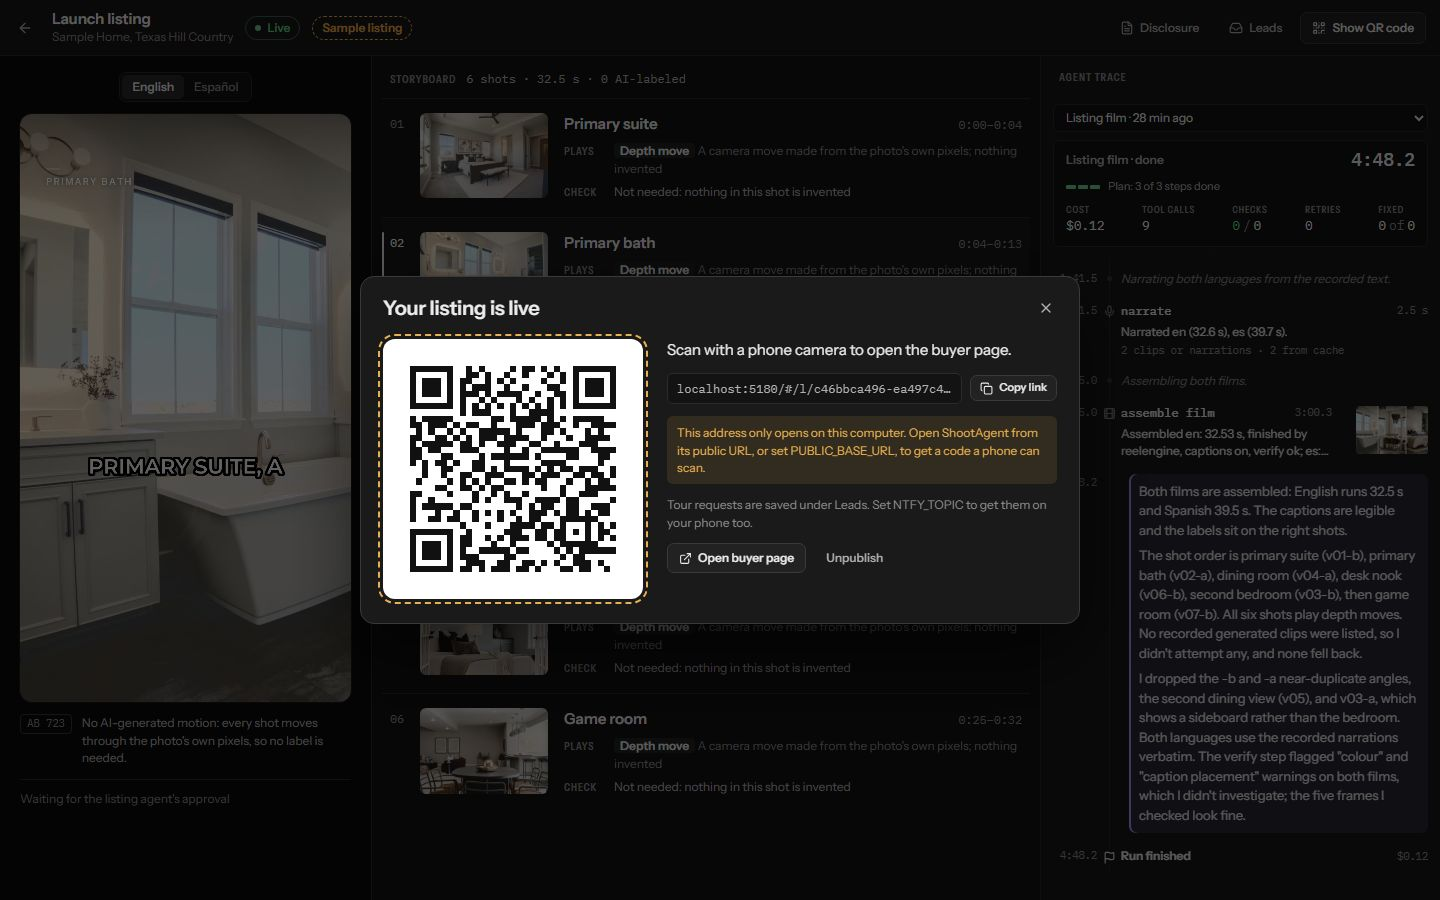
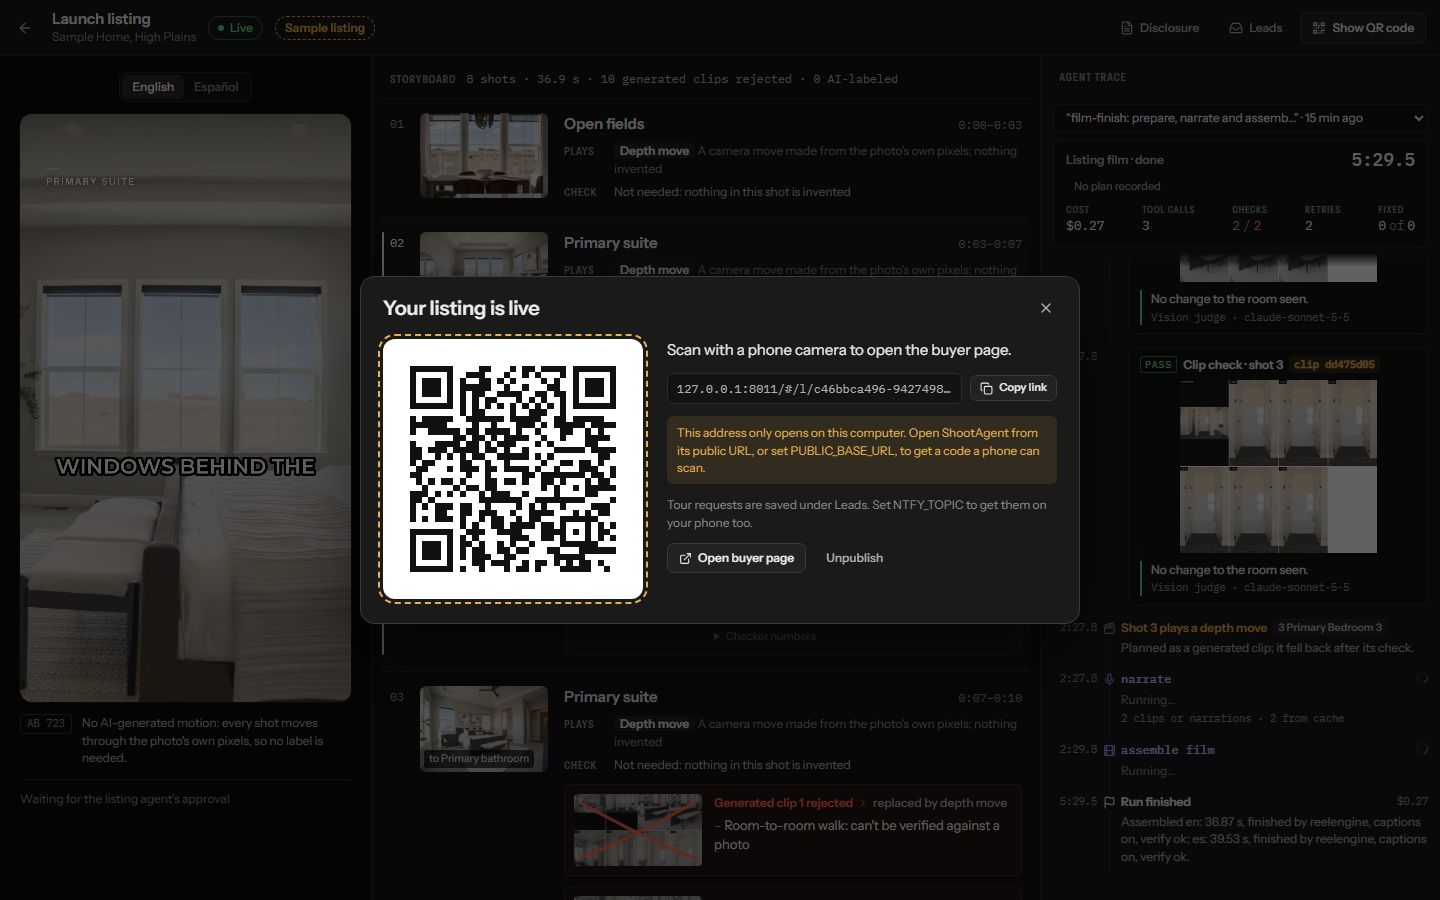
docs: listing launch in the README and write-up; screenshots from the final demo run
The README now leads with the full flow (QC, chat, listing film, buyer page, disclosure), adds the film
checker's untuned score on 10 real Grok clips, the film and listing commands, the film stages in the
architecture diagram and stack table, and the film limitations. The write-up (294 words) and Loom shot list
cover the listing launch. Screenshots were retaken against the demo shoot after the Grok import, so the
storyboard shows the rejected clips.

diff --git a/README.md b/README.md
@@ -1,13 +1,20 @@
 # ShootAgent
 
-ShootAgent checks a real-estate photo shoot against the camera's own exposure brackets, fixes what the
-editing pipeline got wrong, applies a customer's chat requests across every photo they concern, and cuts
-a 9:16 listing reel from the approved photos. Every decision it makes shows up in a live trace: the
-plan, each tool call, each self-check, and each retry.
+ShootAgent takes a real-estate photo shoot from the camera's exposure brackets to a launched listing. It
+checks every finished photo against its brackets and fixes what the editing pipeline got wrong, applies a
+customer's chat requests across every photo they concern, and then launches the listing: a narrated 9:16
+film in English and Spanish whose generated motion is checked against the real photos, a buyer page that
+answers questions and books tours, and a California disclosure page that pairs each edited photo with its
+original. Every decision shows up in a live trace: the plan, each tool call, each self-check, and each retry.
 
 Built for the AITX & MLOps World Community Hackathon (Austin Tech Week, October 2026), entering the
 AutoHDR "Image Models & Pipelines" track (conversational editing, with AI quality control as the
 agent's first pass) and the Antler "Agents" track.
+
+![Frames from a listing film](docs/media/listing-film-strip.jpg)
+
+*Frames from the demo house's listing film. Every shot moves through the photo's own pixels; the price and
+square-footage cards, captions, Gemini narration and Lyria music bed are added by the film pass.*
 
 ![Three saved customer requests applied from chat](docs/media/editor-requests-before-after.jpg)
 
@@ -17,9 +24,9 @@ walls to the colour in the reference image". Pixels outside each edit are byte-i
 delivered photo.*
 
 **Live demo:** https://shootagent.sillion.app (the passcode is in the submission form; it gates spending on
-model APIs). A silent 7-minute walkthrough of one real run (QC, two chat requests, the reel) is in
-[docs/media/demo-walkthrough.mp4](docs/media/demo-walkthrough.mp4), with timestamps in
-[docs/media/demo-walkthrough.md](docs/media/demo-walkthrough.md).
+model APIs). A silent 7-minute walkthrough of one real run of the QC and chat passes, recorded before the
+listing launch existed, is in [docs/media/demo-walkthrough.mp4](docs/media/demo-walkthrough.mp4), with
+timestamps in [docs/media/demo-walkthrough.md](docs/media/demo-walkthrough.md).
 
 ## What it does
 
@@ -51,35 +58,39 @@ wall outlet the customer wanted kept; the third attempt kept it.
 a home, picks a camera move and focus point per photo, renders, and checks a strip of frames before it
 finishes. The music is generated, so the reel carries no licence.
 
-**Listing film.** A narrated, captioned 9:16 film in one or more languages. The agent orders the rooms,
-picks a motion per shot (a generated clip from Grok Imagine, a depth-parallax move, or a slow push-in),
-writes the script from the photos and translates it. Every generated clip is checked against its photos
-(feature matching, motion and line consistency, and a vision judge). A clip that adds or reshapes anything
-is regenerated once with the failure named, then replaced by a depth move, which uses only the photo's
-own pixels. Generated clips that do play carry an "AI-generated motion" label (California AB 723), and
-each film ships with a manifest of every shot's source photo, motion source and check result. Gemini TTS
-speaks the script, and Reel Studio's engine adds captions, the music mix, the cover and a verify report.
-`shootagent film <shoot> --languages en es`; set `FILM_MEDIA=replay` to use recorded media only
-(`shootagent film-seed-replay` copies the recordings from branch `explore/media-tests`). When grok and Gemini
-run on another machine: `shootagent film-script <shoot> --plan plan.json --languages en es` sets the shot plan
-and has the agent write one narration line per shot; `shootagent film-export-requests <shoot>` writes the exact
-grok requests, one TTS request per language, the photos and a stdlib-only runner (`run_grok.py`, which reads the
-Gemini key from the macOS Keychain) to a folder; after it runs there, `shootagent film-import-media <folder>`
-verifies each clip and narration against its fingerprint and recorded request, and `shootagent film-finish
-<shoot>` checks the clips, narrates and assembles. `shootagent listing-sample <shoot>` writes the demo's sample
-listing (`web/src/listing/sample-listing.json`, no street address) to a shoot. `shootagent export-shoot <shoot>
-<out.zip>` and `shootagent import-shoot <zip>` move a finished shoot (store, blobs, traces, film, listing state)
-to another machine; import checks every file against the bundle's SHA-256 list and refuses paths that would
-leave the shoot folder. The demo shoot's bundle is about 760 MiB.
+**Listing film.** A narrated, captioned 9:16 film in one or more languages, made only from photos QC has
+approved. The agent orders the rooms, writes one narration line per shot from what that shot shows (no
+floor levels, materials or counts the photos don't support), translates it, and picks a motion per shot:
+a generated clip from Grok Imagine or a depth-parallax move. Generated clips are where image models invent
+things, so every one is checked against its photo before it may play:
 
-**Listing launch.** From a shoot's film, *Launch listing* shows the storyboard (each shot's photo, its
-motion source, and every generated clip the checker rejected, with the reason and what replaced it), the 9:16
-film in English and Spanish, and the live trace. *Publish listing* gives a QR code for a public buyer page:
-the film, room chips that jump to each room, questions answered from the listing's photos and details (or
-passed to the agent when the photos can't answer), and tour booking that pushes the request to the realtor's
-phone through ntfy. Each listing also gets a California AB 723 disclosure page with every photo beside its
-original. Endpoints are in [docs/api.md](docs/api.md#listing); screenshots in
-[web/screenshots/listing](web/screenshots/listing).
+- tracking signals: the clip's first and last frames must match their photos, tracked points must move
+  like a real camera, straight edges must stay straight, and no structure may appear that the first frame
+  doesn't predict;
+- a vision judge that first lists the checkable items in the photo (doors, windows, lights, wall plates,
+  large furniture, the view through each window) and then accounts for each of them in every sampled frame.
+
+A rejected clip is regenerated once with the failure named, then replaced by a depth move, which moves
+only the photo's own pixels and is itself checked. A walk from one room into another can't be checked
+against any photo, so it never passes on its own. Generated clips that do play carry an "AI-generated
+motion" label, and each film ships with a manifest of every shot's photo, motion source and check results,
+rejected attempts included. Gemini TTS speaks the script; Reel Studio's render engine adds captions, the
+music bed under the voice, the cover and a loudness and sync check; its price and stat card templates
+supply the title cards; cuts land on the music's beats.
+
+**Listing launch.** *Launch listing* shows the film's storyboard (each shot's photo, its motion source,
+and every generated clip the checker rejected, with the reason and what replaced it), the film in English
+and Spanish, and the live trace. *Publish listing* gives a QR code for a public buyer page: the film, room
+chips that jump to each room, questions answered from the listing's photos and details (or passed to the
+agent when the photos can't answer), and tour booking that pushes the request to the agent's phone
+through [ntfy](https://ntfy.sh). Each listing also gets a disclosure page with every edited photo beside
+its original, as California's AB 723 requires for altered listing images since January 2026. Endpoints
+are in [docs/api.md](docs/api.md#listing); screenshots in [web/screenshots/listing](web/screenshots/listing).
+
+![The launch view](web/screenshots/listing/live/1-launch-desk.jpg)
+
+*The launch view: the storyboard keeps every rejected generated clip, crossed out, with the checker's
+reason and the depth move that replaced it.*
 
 ![Removals from saved customer requests](docs/media/removals-before-after.jpg)
 
@@ -145,6 +156,25 @@ every photo in 83 s ($0.25), and half a stop brighter in 154 s ($0.37, measured 
 each, judged by the vision judge): gpt-image-2 with a grown, shadow-aware mask passes 10 to 11 of 12;
 LaMa alone passes 2 of 12.
 
+**Listing film, demo house** (AutoHDR property group `property_c3ec3b9cd3bbe0b378`, 7 finished photos with
+brackets). QC found that every one of the 7 finished photos merged two camera positions, split each into
+its own photos, and left 11 deliverable: the primary bath, for example, turned out to have a freestanding
+tub that the merged photo hid. QC took 218 s and $0.45. The film pass made an English film (36.9 s) and a
+Spanish one (39.5 s); both pass Reel Studio's verify at -14.2 LUFS with no sound and picture drift.
+
+**Generated motion.** Grok Imagine invented something in 10 of the 14 clips we made of this house: a door
+leaf, a deck stair outside a window, four pendant lights, a switch plate, an ornament, an outlet, a ceiling
+vent and a vanity, a door casing, a whole door, and a person standing in the shower window. Scored without tuning on
+the 10 clips from the film run ([docs/eval/film_checker.md](docs/eval/film_checker.md)):
+
+| | Clips | Checker result |
+|---|---|---|
+| clip invented something | 6 | 5 rejected by the checks; the 6th, a room-to-room walk with the person, passed the judge and is now blocked by the walk rule |
+| clip was faithful | 4 | 0 passed: the tracking signals, set on synthetic clips, reject every real generated clip |
+
+So the current films use depth moves for every shot. A check costs $0.072 on average. Each 6 s clip took
+35 to 65 s to generate and about 2% of a SuperGrok subscription's weekly allowance.
+
 ## Quick start
 
 Requirements: Python 3.11 or 3.12, Node 20, ffmpeg on PATH, and [uv](https://docs.astral.sh/uv/).
@@ -191,6 +221,22 @@ uv run shootagent chat <shoot-id> "add a 'Listed by Acme Realty' watermark botto
 
 Or open the UI, pick a demo shoot on the start screen, and press Run QC.
 
+Listing launch:
+
+```bash
+uv run shootagent listing-sample <shoot-id>                 # the demo's sample listing details (no street address)
+uv run shootagent launch <shoot-id>                         # QC where needed, approve clean views, then the film
+uv run shootagent film <shoot-id> --languages en es         # the film pass alone; FILM_MEDIA=replay uses recorded media
+uv run shootagent export-shoot <shoot-id> demo.zip          # move a finished shoot to another machine
+uv run shootagent import-shoot demo.zip                     # checks every file against the bundle's SHA-256 list
+```
+
+Grok Imagine and Gemini TTS ran on the demo Mac, where they are signed in, while checking and rendering ran on
+the PC. `film-export-requests <shoot>` writes the exact Grok and TTS requests, the photos and a standard-library
+runner (`run_grok.py`, which reads the Gemini key from the macOS Keychain) to a folder; after it runs on the
+other machine, `film-import-media <folder>` verifies each clip and narration against its fingerprint and
+recorded request, and `film-finish <shoot>` checks the clips, narrates and assembles.
+
 ### Public demo link
 
 `scripts/serve-public.sh` serves the app through a Cloudflare tunnel behind `DEMO_PASSCODE`, and exits when
@@ -220,6 +266,15 @@ flowchart LR
   Tools --> Store[("Shoot store<br/>versions, masks, blobs")]
   Loop --> Trace[("Trace<br/>jsonl per run")]
   Trace -- live events --> API
+  Loop -- film mode --> Film["Film tools<br/>shot plan, script"]
+  Film --> Motion["Motion<br/>Grok Imagine clips,<br/>depth-parallax moves"]
+  Motion --> ClipCheck["Clip check<br/>tracking signals,<br/>inventory judge"]
+  ClipCheck -- fail: depth move --> Motion
+  Film --> Voice["Gemini TTS"]
+  ClipCheck --> Engine["Reel Studio engine<br/>captions, music, verify"]
+  Voice --> Engine
+  Engine --> Listing["Listing<br/>buyer page, Q&A,<br/>tours, disclosure"]
+  Listing -- tour booked --> Phone["Agent's phone<br/>ntfy"]
 ```
 
 The agent edits a shoot only through typed tools, and deterministic code or pinned models produce the
@@ -237,6 +292,11 @@ and the HTTP contract in [docs/api.md](docs/api.md).
 | Removal | gpt-image-2 inside a grown mask that takes in the object's cast shadow, colour- and grain-matched, composited back; LaMa offline |
 | Bracket work | OpenCV feature matching and homographies, Mertens exposure fusion, Lab-space colour fitting |
 | Reel | frames drawn in Python (sub-pixel camera moves), encoded by ffmpeg; Fraunces and Inter (OFL) |
+| Film motion | Grok Imagine image-to-video (through the Grok CLI); Depth Anything V2 Small (Apache-2.0) for depth-parallax moves |
+| Clip check | OpenCV feature matching and Lucas-Kanade tracking, line-segment checks, and a Claude Sonnet 5.5 judge that inventories the photo first |
+| Voice and music | Gemini 3.8 Flash TTS (voice Sulafat); music beds made with Lyria in Google's Gemini app |
+| Film finishing | Reel Studio's render engine (MIT), run as a separate program: faster-whisper captions, music ducking, loudness and sync verify; its HTML price and stat templates rendered with Playwright |
+| Buyer Q&A | Claude Sonnet 5.5 with the listing's photos and details, no tools, rate-limited with a daily spend cap |
 | API and UI | FastAPI with SSE; Vite, React and TypeScript |
 
 ## Datasets
@@ -267,9 +327,17 @@ variables at the unzipped folders.
 - Split views from regrouping are fused from the brackets and tone-matched to AutoHDR's photo, but not
   lens-corrected or cropped the way AutoHDR's own pipeline would.
 - The QC detector's confidence thresholds were chosen on the same 63 cases it is scored on.
+- The clip checker's tracking signals reject faithful generated clips (0 of 4 passed), so no generated
+  motion plays in the current films. Its judge missed the person in a room-to-room walk; such walks are now
+  never passed automatically. Ten real clips are too few to set thresholds on.
+- Grok returned single-photo clips in the photo's landscape shape although 9:16 was requested; cropped to a
+  vertical frame they are visibly softer than depth moves made from the full-resolution photo.
+- The demo's listing details (price, rooms, size) are invented sample data, marked as a sample in the UI.
+- The Spanish narration is accurate but less natural than the English, with even, rigid pauses.
 - Single-user: one agent run per shoot at a time, files on local disk, no accounts.
 
-Next steps: a firebox-aware restore; sky checks along window edges; lens-geometry checks from straight
+Next steps: recalibrate the clip checker's tracking signals on real generated clips so faithful ones can
+play; a firebox-aware restore; sky checks along window edges; lens-geometry checks from straight
 architectural lines; batch generative removals per shoot.
 
 ## Team
@@ -278,8 +346,8 @@ Sam Gu, Bryan Wang.
 
 ## License
 
-MIT. ffmpeg is called as an external program and is not redistributed. The bundled fonts are under the
-SIL Open Font License (see `src/shootagent/reel/fonts/`).
+MIT. ffmpeg and Reel Studio's render engine are called as external programs and are not redistributed.
+The bundled fonts are under the SIL Open Font License (see `src/shootagent/reel/fonts/`).
 
 Credits: the film's music beds in `src/shootagent/film/music/` ("The Morning Foyer", the default, and "First
 Light on Oak") are AI-generated, made with Google's Gemini app (Lyria) on 28 October 2026; how they were made

diff --git a/docs/submission.md b/docs/submission.md
@@ -3,66 +3,58 @@
 Text to paste into the hackathon forms, and the Loom shot list. Numbers come from the README's Results
 section; update both together if a rerun changes them.
 
-## Write-up (265 words)
+## Write-up (294 words)
 
 **Problem.** AutoHDR edits about one in ten US real-estate listings with AI. When an edit goes wrong, a
-person finds it: two rooms fused into one photo, a lamp erased along with the tripod, a blue wall turned
-grey. Then the customer asks for more ("remove the cars", "use #C8C2B7 on the floors") and someone does
-that by hand too.
+person finds it: two camera positions fused into one photo, a lamp erased along with the tripod, a blue wall
+turned grey. Then the listing still needs marketing: a video, a listing page, answers for buyers, and in
+California a disclosure for every altered photo.
 
-**Who it helps.** Real-estate photographers and editing teams who deliver dozens of photos per listing
-and fix complaints one at a time.
+**Who it helps.** Real-estate photographers, who deliver dozens of photos per listing, and the agents
+they shoot for.
 
-**Solution.** ShootAgent is a Claude agent that works on the whole shoot through typed tools. Its QC pass
-fuses each view's exposure brackets into a reference and compares the finished photo against it. Claude
-judges each disagreement from side-by-side crops, then fixes real defects by restoring from the brackets,
-regrouping them, or recolouring. Customers make chat requests, and the agent decides per photo whether
-each one applies. It masks with Grounding DINO and SAM 2.1 and edits through a mask, so pixels outside the
-edit stay byte-identical. After every edit the loop runs a check: outside-mask delta, a region metric, and
-a vision judge. A failed check reverts the edit and forces a different approach. Approved photos become a
-9:16 listing reel. Every plan, tool call, check and retry streams to a live trace.
+**Solution.** ShootAgent is a Claude agent that works on a whole shoot through typed tools. Its QC pass
+fuses each view's exposure brackets into a reference, compares the finished photo against it, and fixes
+real defects by restoring from the brackets, splitting wrongly merged views or recolouring. Customers make
+chat edits across the shoot, and pixels outside each edit stay byte-identical. Then it launches the
+listing: a narrated 9:16 film in English and Spanish, where every Grok-generated clip is checked against
+the real photos and replaced with motion made from the photo's own pixels if it invents anything; a buyer
+page that answers questions from the photos and books tours to the agent's phone; and a disclosure page
+pairing each edited photo with its original. Every plan, tool call, check and retry streams to a live trace.
 
-**Impact.** On AutoHDR's 63 defect cases it fixed all 21 grouping and ghosting errors, and 31 of 59
-defects overall, without editing any clean photo. It costs about $0.07 and under a minute per photo. Seven
-saved customer requests passed from chat, including removals of cars, bins and wires.
-
-## Loom
-
-The fastest path: narrate over [docs/media/demo-walkthrough.mp4](media/demo-walkthrough.mp4), a silent 6:54
-recording of one real showcase run (QC, two chat requests, reel; $0.91 of agent runs). The narration lines
-and timestamps are in [docs/media/demo-walkthrough.md](media/demo-walkthrough.md). Trim to under 5 minutes
-by cutting the approval clicks (5:31 to 6:12) and part of the verdict block. The same video can serve as
-the brief's fallback screen recording.
-
-To record live instead, follow the shot list below.
+**Impact.** On AutoHDR's 63 defect cases it fixed all 21 grouping and ghosting errors and 31 of 59 defects
+overall, without editing a clean photo, for about $0.07 per photo. On the demo house it found that all
+seven finished photos merged two camera positions, and recovered four more deliverable photos. Grok
+invented something in 10 of the 14 clips we generated, including a person in a shower window; none reached
+the final film.
 
 ## Loom shot list (target 3:30)
 
-1. **0:00 to 0:20, the problem.** A finished AutoHDR photo with two rooms fused, beside its brackets. One
-   sentence: editing pipelines make mistakes a photographer has to catch by hand.
-2. **0:20 to 1:30, QC pass.** Open the "Demo shoot" (`shootagent demo showcase`) and press Run QC.
-   Narrate the trace as it streams: the plan, run_qc_checks finding candidates, the agent dismissing
-   legitimate edits with reasons, the regroup splitting the fused photo into two views, the ghosting
-   restore, and any failed check followed by a retry (amber row). Drag the before/after slider on the
-   stop sign. The clean photo and the customer photos stay untouched.
-3. **1:30 to 2:30, chat across the shoot.** Type "remove the cars and trash bins": the agent edits the
-   driveway and bedroom photos and reports the rest as not needed, with reasons. Then shift-click the TV
-   in the bedroom and send "put the reference image on this screen". Show the per-photo
-   results: applied, or not needed with the reason. Zoom into the removal and point out the outside-mask
-   delta of 0 in the check row.
-4. **2:30 to 3:10, reel.** Approve the photos, press Build reel, and play the 9:16 result. The agent
-   ordered the rooms and chose the camera moves; the trace shows its reasoning.
-5. **3:10 to 3:30, numbers.** The README Results table: 21/21 grouping fixed, 31/59 overall, 0 clean
-   photos touched, $0.07 per photo. Close on the repo URL.
+1. **0:00 to 0:20, the problem.** The demo house's finished bathroom photo beside its brackets: AutoHDR
+   merged two camera positions, and the freestanding tub seen from one of them doesn't appear. One sentence:
+   editing pipelines make mistakes a photographer has to catch by hand.
+2. **0:20 to 1:00, QC pass.** Open the demo house and play its QC trace: the plan, the grouping check
+   finding two camera positions in every photo, the split, and the bathroom part with the tub. The 21/21
+   grouping result in one line.
+3. **1:00 to 1:30, chat across the shoot.** On the showcase shoot, send "remove the cars and trash bins":
+   per-photo results, applied or not needed with the reason, and the outside-mask delta of 0 in the check row.
+4. **1:30 to 2:30, launch the listing.** Open Launch listing. Walk the storyboard: Grok's rejected clips
+   with the checker's reasons (an outlet, a door, a vanity, and the person in the shower window) and the
+   real-photo moves that replaced them. Play the English film, then switch to Spanish.
+5. **2:30 to 3:10, the buyer side.** Publish, scan the QR code with a phone, ask "Is there a bathtub in the
+   primary bath?", then book a tour; the agent's phone gets the push notification. Open the disclosure page.
+6. **3:10 to 3:30, numbers.** 31/59 defects fixed, 21/21 grouping, Grok invented something in 10 of 14
+   clips and none shipped. Close on the repo URL.
 
-Record at 1920x1080 with the browser at 100% zoom. Start the QC run before recording if the room is slow,
-and cut to it when the trace is streaming; the Loom should show real runs, not the demo-mode replay.
+Record at 1920x1080 with the browser at 100% zoom. Show real runs and their traces, not the demo-mode
+replay. The older silent walkthrough of the QC and chat passes, docs/media/demo-walkthrough.mp4, can fill
+in for steps 2 and 3.
 
 ## Checklist from the brief
 
 - [x] Public repo with quick start, stack, architecture diagram, `.env.example`, datasets and provenance,
       limitations and next steps
-- [ ] Loom, 2 to 5 minutes (silent walkthrough ready to narrate: docs/media/demo-walkthrough.mp4)
+- [ ] Loom, 2 to 5 minutes (shot list above)
 - [ ] Deployed URL for AutoHDR Track 3: https://shootagent.sillion.app (served from the demo MacBook through a
       named Cloudflare tunnel; passcode in the git-ignored .env.local on that machine). Their form:
       https://docs.google.com/forms/d/e/1FAIpQLSdDi6tLfJ_eglXgwOMU3p2QoSTvKf0CxKr4t82ZeDjoWZdR9A/viewform
